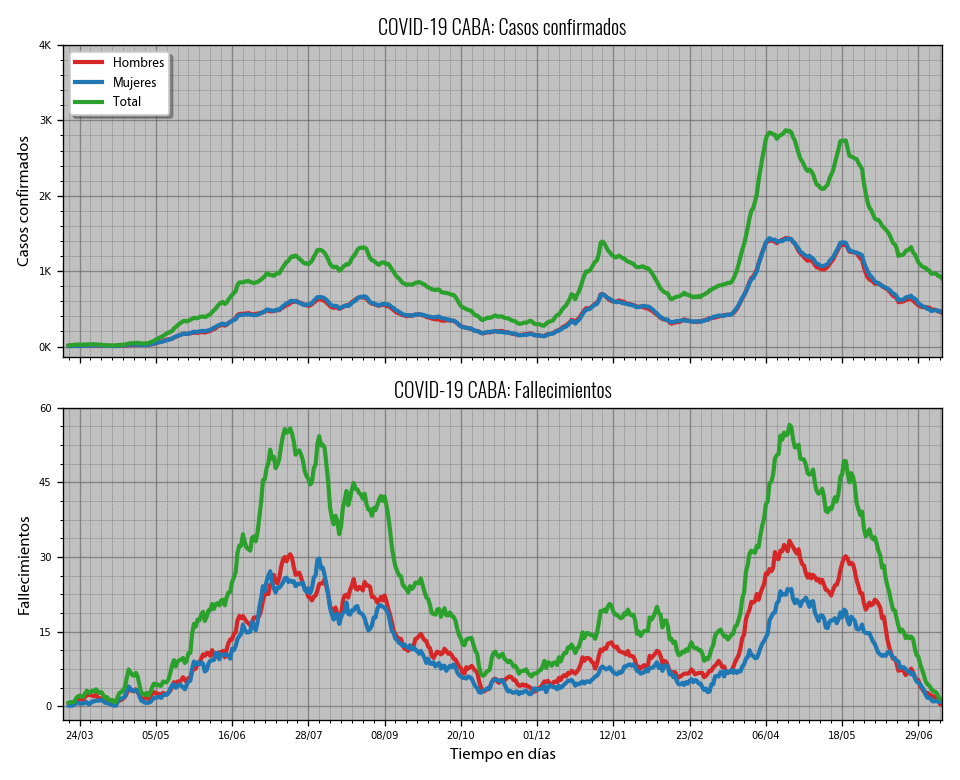
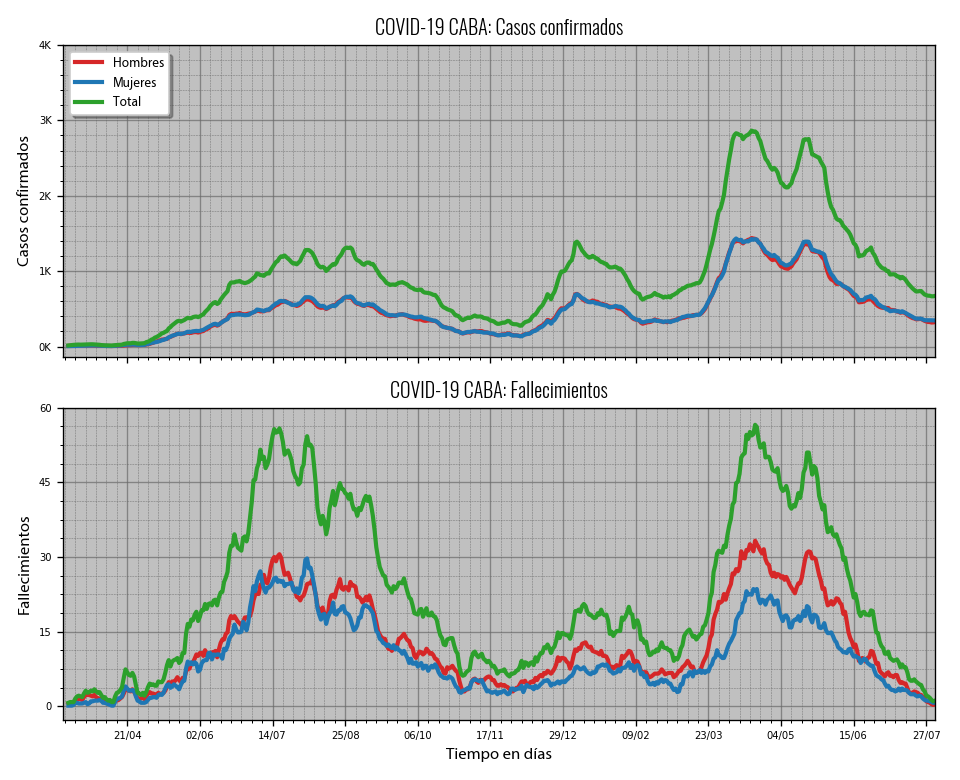
Updating charts...

Changed region(s): [[0.0625, 0.0, 1.0, 0.9846], [0.875, 0.9231, 0.9062, 0.9538]]

diff --git a/chart_config.py b/chart_config.py
@@ -26,7 +26,7 @@ language = 1 #0 = english, 1 = spanish
 legend_text_size = 8
 plot_scale = "linear"
 start_date = "2020-11-01"
-end_date = "2021-07-19"
+end_date = "2021-08-08"
 week_interval = 3
 v_start_date = "2021-01-01"
 v_week_interval = 2
